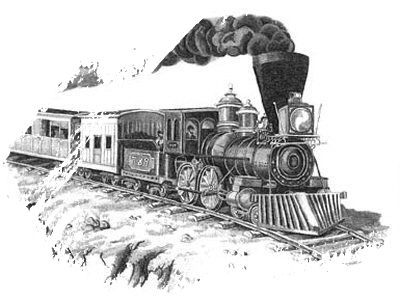
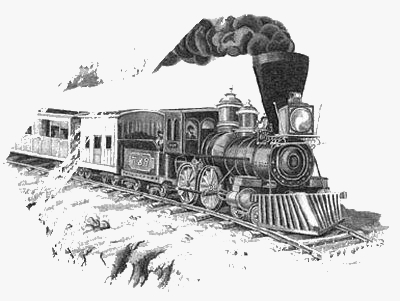
j

diff --git a/manterus/index.html b/manterus/index.html
@@ -63,8 +63,8 @@
         <main class="trans">
             <div class="container">
                 <section class="trans-head">
-                    <img class="img-train" src="img/train2.png" alt="">
-                    <img class="img-telega" src="img/telega2.png" alt="">
+                    <img class="img-train" src="img/train2.jpg" alt="">
+                    <img class="img-telega" src="img/telega2.jpg" alt="">
                     <h2>Широкий спектр транспортно-логистических услуг</h2>
                     <h3>Доставим ваш груз "от двери до двери"</h3>
                 </section>

diff --git a/manterus/css/home.css b/manterus/css/home.css
@@ -7,8 +7,9 @@ body{
     --orangish:#c7ac17;
     --yellow:#b4b439;
     --purple: #321878;
+    --white: #f7f7f7;
     font-family: 'Roboto', sans-serif;
-    background-color: rgb(247, 247, 247) !important;
+    background-color: var(--white) !important;
 }
 a{
     text-decoration: none;
